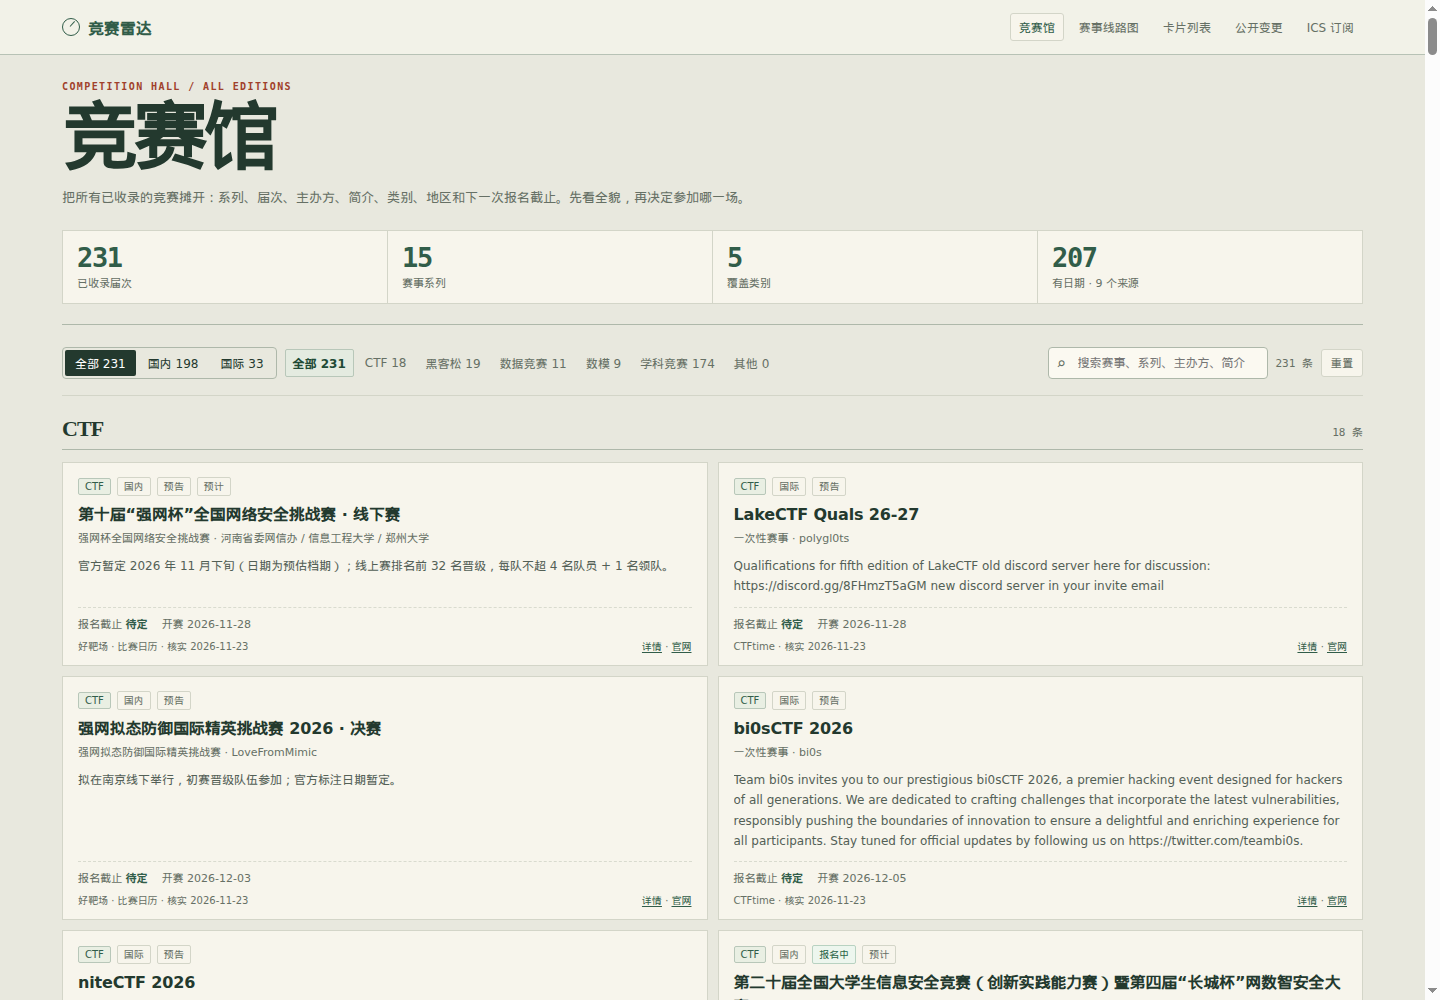
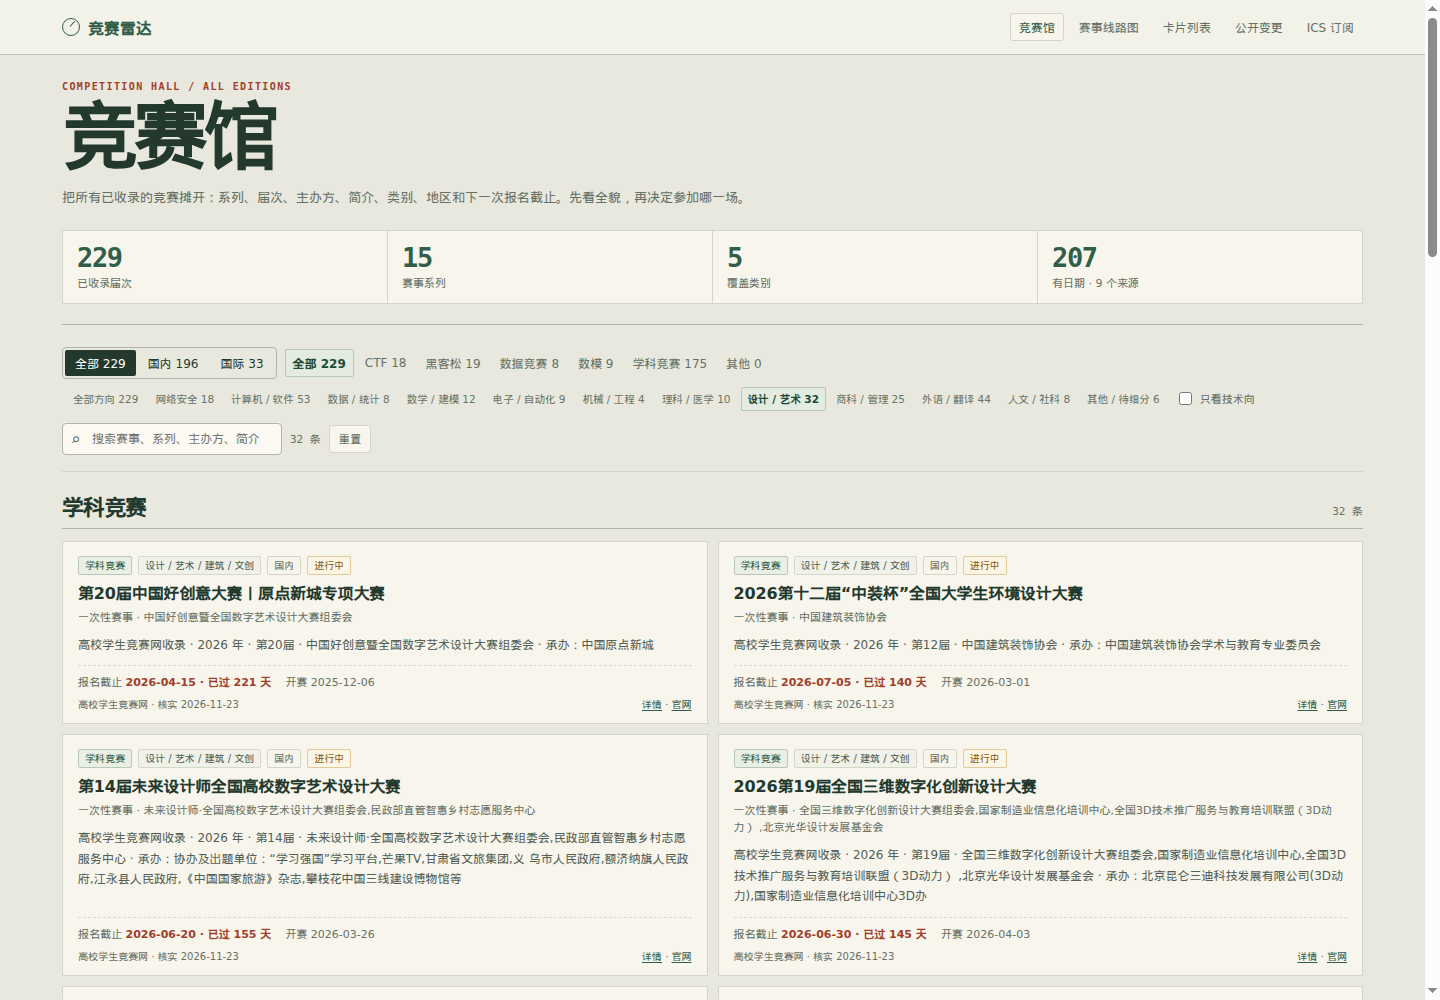
docs: record classification deployment and audit results

diff --git a/docs/classification-audit.md b/docs/classification-audit.md
@@ -1,7 +1,7 @@
 # 竞赛方向分类与内容类型：实现与离线核实
 
 - 日期：2026-11-23
-- 状态：**代码已实现并离线验证，尚未部署到线上 VPS**
+- 状态：**已部署并完成线上验证（schema v3）**
 - 目标：把原来的 `academic` 大类拆成可精确过滤的方向，同时先排除志愿者、活动、课程等非竞赛内容。
 
 ## 1. 两层分类
@@ -89,7 +89,7 @@ field_confidence   high 84 / medium 147 / low 0
 | electronics | 9 | 电子 / 自动化 / 通信 |
 | engineering | 4 | 机械 / 结构 / 船舶 / 土木 |
 | science | 10 | 物理 / 医学 / 生命 / 地理 |
-| design | 33 | 设计 / 艺术 / 文创 |
+| design | 33 | 设计 / 艺术 / 文创（公开 32，另 1 条活动隐藏） |
 | business | 25 | 商科 / 金融 / 管理 / 创业 |
 | language | 44 | 英语 / 翻译 / 写作 / 语言文字 |
 | humanities | 8 | 文学 / 法律 / 教育 / 文化 |
@@ -177,12 +177,17 @@ npm test
 - 公开接口隐藏非竞赛内容
 - 迁移回填幂等（第二次 classified=0）
 
-## 8. 部署状态
+## 8. 部署验证
 
-**尚未部署。** 下一步需要在确认分类结果后：
+已于 2026-11-23 部署：
 
-1. 备份线上数据库
+1. 备份线上数据库：`data/backups/pre-classification-20261123-190559.db`
 2. 部署 schema v3 / classifier / UI
-3. 启动时自动回填
-4. 检查公开数量、方向分布、非竞赛内容是否隐藏
-5. 发现问题可回滚数据库和代码
+3. 启动时自动回填 231 条
+4. 公开 API：`229` 条，`KPL` / 公益短视频均为 0
+5. 方向分布：software 53、language 44、design 32、business 25、cyber 18、math 12、science 10、electronics 9、humanities 8、data 8、other 6、engineering 4
+6. 技术向：104 条
+7. 待审核：0
+8. 测试：28 passed
+
+部署后修正了赛氪 `big_data` / `match` / `computer` / `ai` 来源分类过宽的问题，避免 C++/物联网被归到数据、数据分析被归到其他、CRH 数据赛道被归到软件。修正后回填 5 条，第二次回填为 0。
